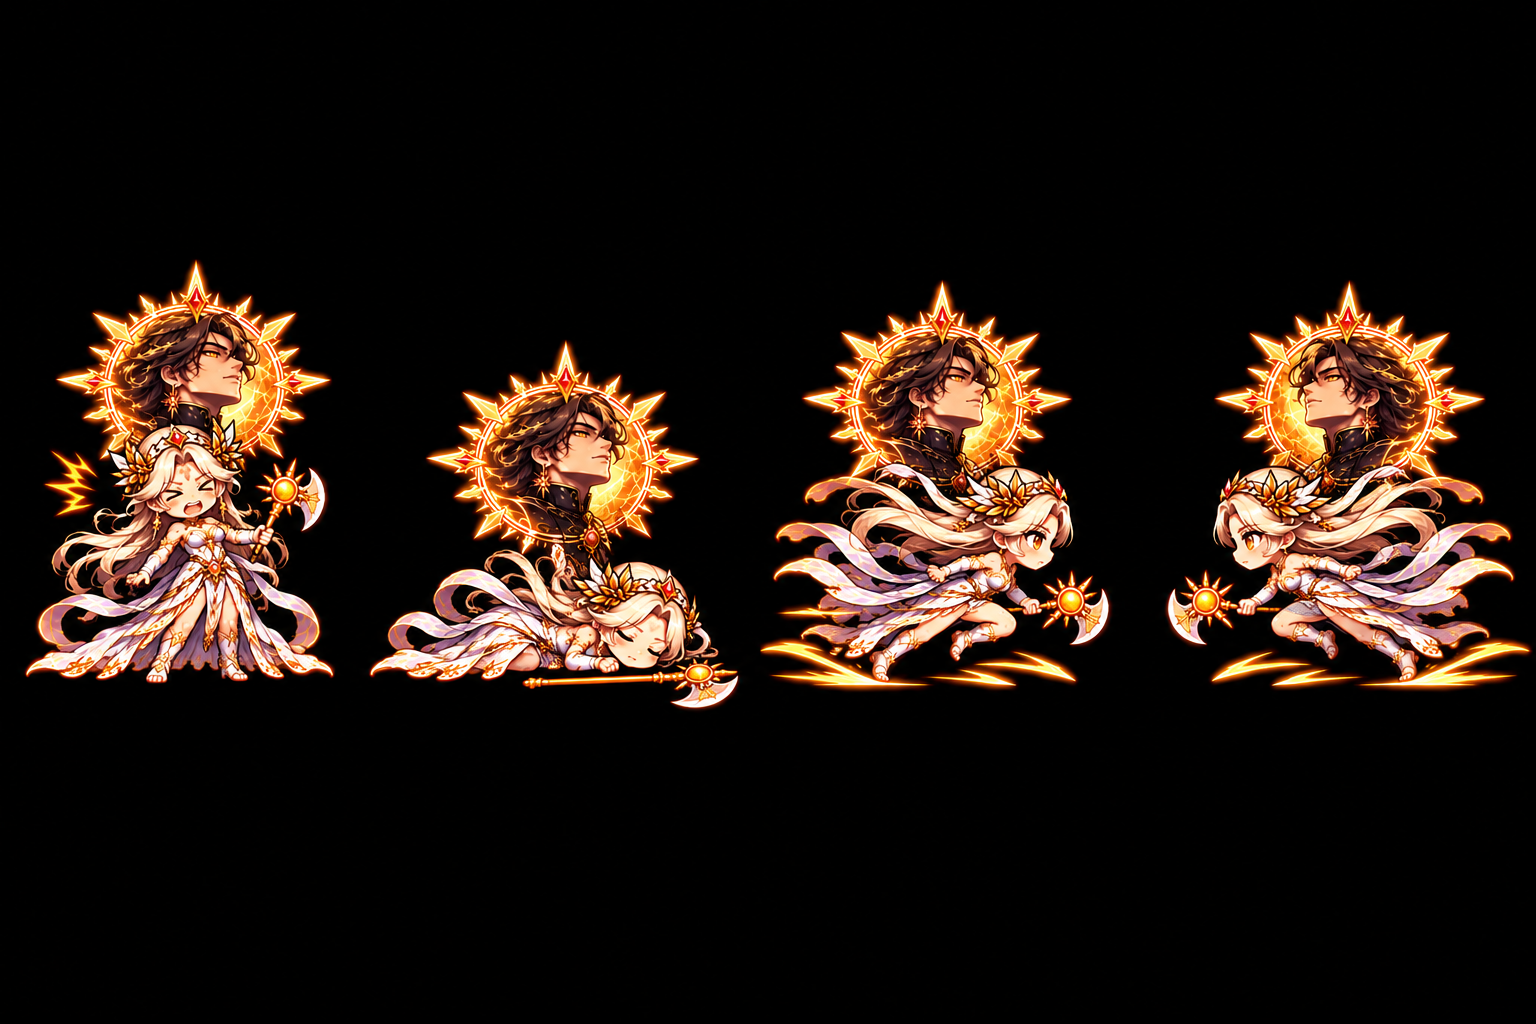
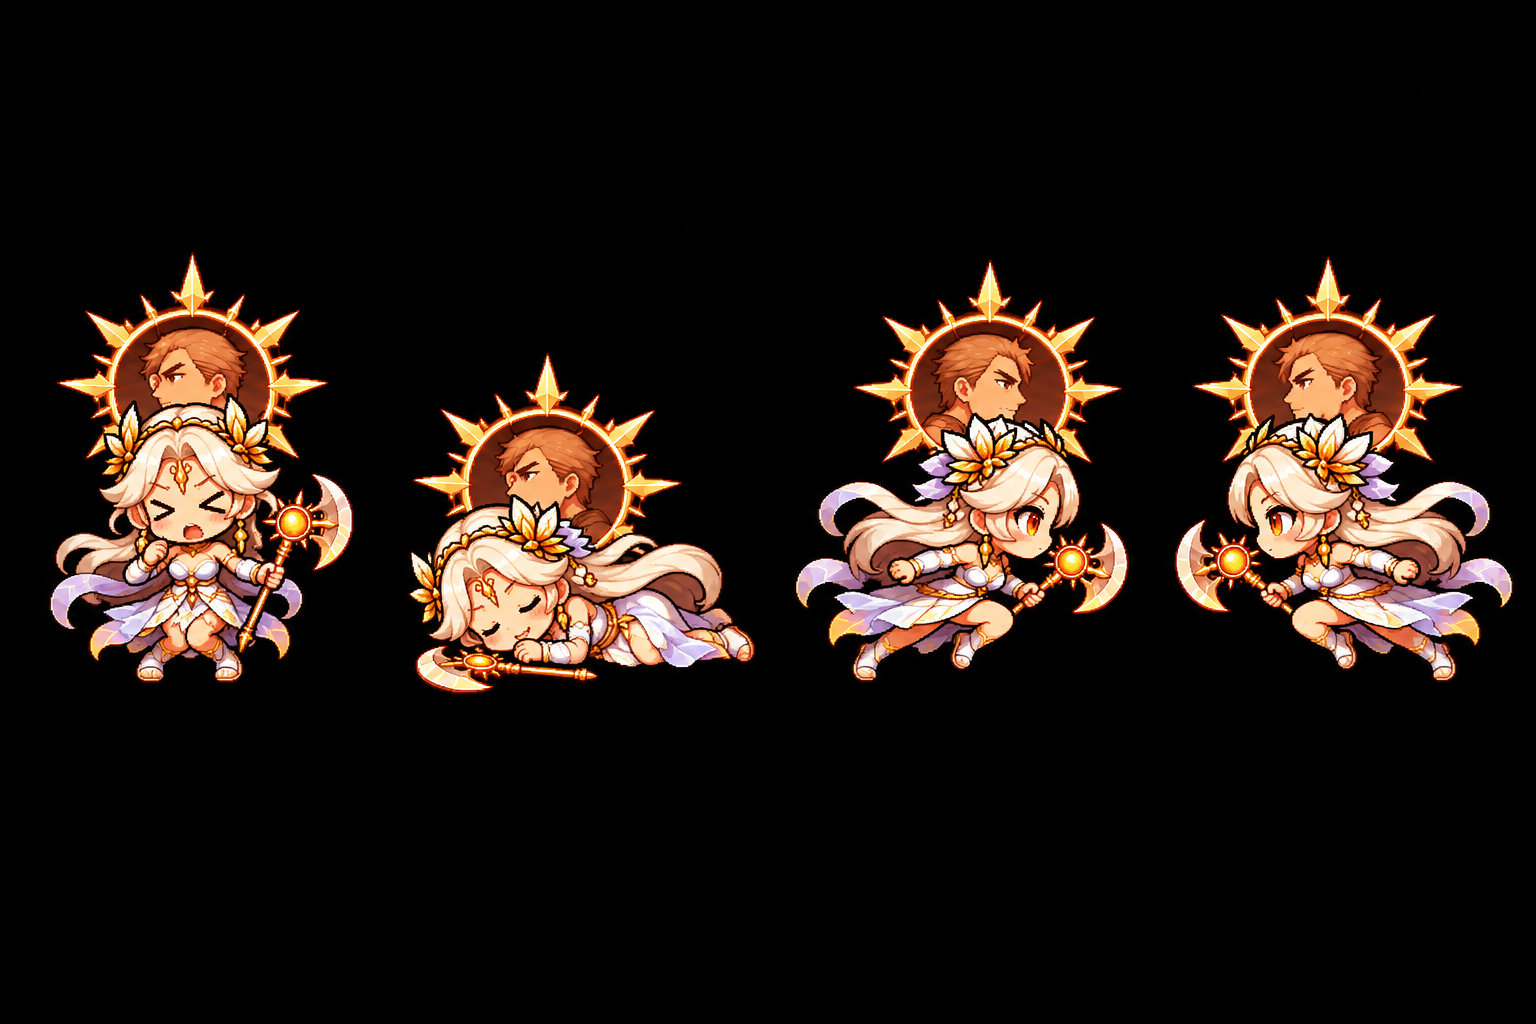
이클립스 태양·일식 그림 새로(사용자 그림)·대비 진하게 (0.49.28)

Changed region(s): [[0.0, 0.25, 1.0, 0.7188]]

diff --git a/apps/client/src/patchNotes/latest.ts b/apps/client/src/patchNotes/latest.ts
@@ -4,6 +4,15 @@ import type { PatchNote } from "./types";
 // 이 파일이 12KB를 넘으면 오래된 버전을 새 묶음 파일로 옮기고 index.ts에 이어 붙임
 export const NOTES: PatchNote[] = [
   {
+    version: "0.49.28",
+    date: "2026-11-05",
+    items: {
+      ko: ["이클립스: 태양·일식 두 모습 그림을 새로 (선이 또렷하고 몸이 더 잘 보이게, 색 대비도 진하게)"],
+      en: ["Eclipse: new sprites for both Sun and Eclipse forms (cleaner lines, more readable body, stronger contrast)"],
+      ja: ["エクリプス：太陽・日食の両方の姿の絵を新しく（線がくっきり、体が見やすく、色のコントラストも強く）"],
+    },
+  },
+  {
     version: "0.49.27",
     date: "2026-11-05",
     items: {

diff --git a/packages/shared/src/constants.ts b/packages/shared/src/constants.ts
@@ -1,5 +1,5 @@
 /** 게임 버전 (패치 노트 맨 위 버전과 같게 유지) */
-export const GAME_VERSION = "0.49.27";
+export const GAME_VERSION = "0.49.28";
 
 /** 한 칸(타일) 크기, 픽셀 */
 export const TILE_SIZE = 16;

diff --git a/scripts/art/import_v2.py b/scripts/art/import_v2.py
@@ -6,7 +6,7 @@ import os
 import sys
 from collections import deque
 
-from PIL import Image
+from PIL import Image, ImageEnhance
 
 from import_sheet import CELL, FOOT, HERE, finish, shrink
 from s2_common import SPRITES
@@ -58,6 +58,8 @@ ATTACK_LR = {
 BACK_ATTACK_STAND = {"mystic"}
 # 대시 오른쪽 칸이 왼쪽을 보는 캐릭터: 그 칸을 뒤집어 오른쪽으로, 원래 그림은 왼쪽으로 (사용자 확인)
 DASH_FLIP = {"morph-bear"}
+# 옅은 색이 많아 작게 줄이면 흐린 캐릭터: 시트 전체 대비·채도를 더 올림 (배율)
+CRISP = {"eclipse": 1.3, "eclipseNight": 1.25}
 # 다 맞춘 뒤에도 왼·오가 반대인 줄: 그 줄의 왼쪽·오른쪽 칸을 서로 바꿈 (1 공격 · 2 걷기 왼발 · 3 걷기 오른발, 오른쪽 그림 확인 2026-10-31)
 ROW_SWAP = {"morph-snake": (1, 3), "morph-bat": (1, 3), "morph-boar-evo": (3,), "morph-snake-evo": (3,), "morph-wolf-evo": (1,), **{n: (4,) for n in ("pungryu", "collector", "samyeol", "silk", "voyager", "forgotten", "remnant", "tracker", "punk", "miner",
                                        "rider", "mukin", "wanderer", "bomber", "artifacter", "automata", "eater", "zeus", "slayer", "slayer_rage")}}
@@ -257,6 +259,11 @@ def build(name):
         if name in CROP_WIDE: p = crop_wide(p, (CELL - 2) / min(base, (FOOT - 1) / p.height))
         p = shrink(p, min(base, (CELL - 2) / p.width, (FOOT - 1) / p.height))
         sheet.alpha_composite(p, (c * CELL + (CELL - p.width) // 2, r * CELL + FOOT - p.height))
+    if name in CRISP:
+        a = sheet.getchannel("A")
+        rgb = ImageEnhance.Color(ImageEnhance.Contrast(sheet.convert("RGB")).enhance(CRISP[name])).enhance(CRISP[name])
+        sheet = rgb.convert("RGBA")
+        sheet.putalpha(a)
     # 스킨처럼 쓰는 그림(이름에 _ : 각성 오니 oni_god 등)은 skins 폴더에
     out = os.path.join(SPRITES, "skins", f"{name}.png") if "_" in name else os.path.join(SPRITES, f"{name}.png")
     finish(sheet).save(out, optimize=True)
